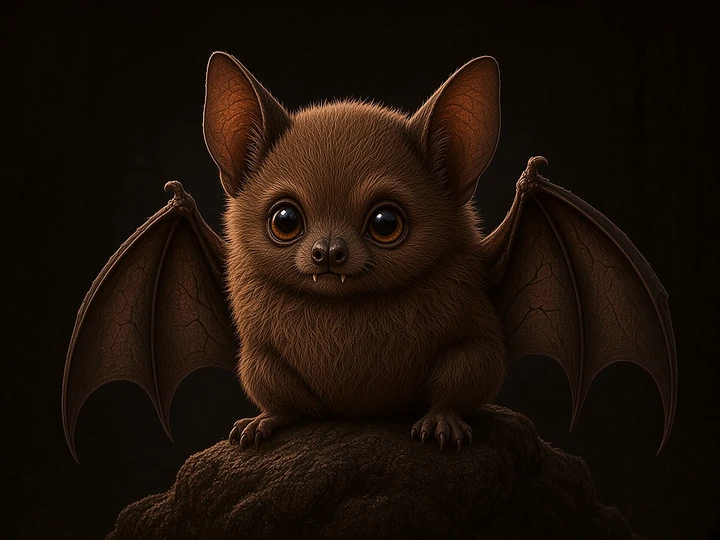
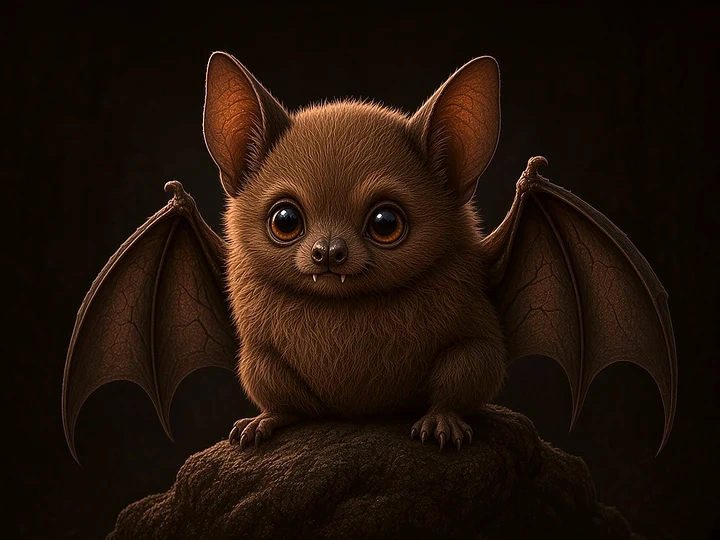
beast cards: retouch young-05,06,10,11,12,13,16,20 (sharpen/brighten, unified method) + bump ?v= cache codes
Cards: young-05/06/10 (sharpen), young-11/12/16/20 (sharpen), young-13 (brighten a=1.25).
Updated front + thumb + thumb-480 webp (720x540 front), ?v= in BeastCardTile.tsx = new sha256[:12].
Owner voice order 2026-11-08 19:13 UTC+8.

diff --git a/components/battlefield/BeastCardTile.tsx b/components/battlefield/BeastCardTile.tsx
@@ -64,14 +64,14 @@ const ART_V2: Record<string, { thumb: string; mid: string; front: string }> = {
     front: '/beast-game/front/young-04.v2.webp?v=a194aeef0b51',
   },
   beast_y05: {
-    thumb: '/beast-game/thumb/young-05.v2.webp?v=71250631fa23',
-    mid: '/beast-game/thumb/young-05.v2-480.webp?v=3f00cd5904b9',
-    front: '/beast-game/front/young-05.v2.webp?v=21a10ce94c86',
+    thumb: '/beast-game/thumb/young-05.v2.webp?v=e5dd345f8550',
+    mid: '/beast-game/thumb/young-05.v2-480.webp?v=ae604b3e5bdb',
+    front: '/beast-game/front/young-05.v2.webp?v=d8f7ef0a729b',
   },
   beast_y06: {
-    thumb: '/beast-game/thumb/young-06.v2.webp?v=17a0c899988e',
-    mid: '/beast-game/thumb/young-06.v2-480.webp?v=5ac9a1fe08d1',
-    front: '/beast-game/front/young-06.v2.webp?v=48ea20912d28',
+    thumb: '/beast-game/thumb/young-06.v2.webp?v=540719954913',
+    mid: '/beast-game/thumb/young-06.v2-480.webp?v=a9aef68f052e',
+    front: '/beast-game/front/young-06.v2.webp?v=cf4539155f9a',
   },
   beast_y07: {
     thumb: '/beast-game/thumb/young-07.v2.webp?v=0cae45d61297',
@@ -89,24 +89,24 @@ const ART_V2: Record<string, { thumb: string; mid: string; front: string }> = {
     front: '/beast-game/front/young-09.v2.webp?v=4a9f0bee5773',
   },
   beast_y10: {
-    thumb: '/beast-game/thumb/young-10.v2.webp?v=60b293681178',
-    mid: '/beast-game/thumb/young-10.v2-480.webp?v=86a13c3c8c55',
-    front: '/beast-game/front/young-10.v2.webp?v=e5724cd804a0',
+    thumb: '/beast-game/thumb/young-10.v2.webp?v=10b8c45da983',
+    mid: '/beast-game/thumb/young-10.v2-480.webp?v=9c0abc08c321',
+    front: '/beast-game/front/young-10.v2.webp?v=13a8976a0a7e',
   },
   beast_y11: {
-    thumb: '/beast-game/thumb/young-11.v2.webp?v=918a71c2bdc6',
-    mid: '/beast-game/thumb/young-11.v2-480.webp?v=55d77643f84c',
-    front: '/beast-game/front/young-11.v2.webp?v=9a74281f87a9',
+    thumb: '/beast-game/thumb/young-11.v2.webp?v=ebcc6d14caa2',
+    mid: '/beast-game/thumb/young-11.v2-480.webp?v=685056ccea8b',
+    front: '/beast-game/front/young-11.v2.webp?v=c4d385320729',
   },
   beast_y12: {
-    thumb: '/beast-game/thumb/young-12.v2.webp?v=ddd6095e2b50',
-    mid: '/beast-game/thumb/young-12.v2-480.webp?v=b52c90cc4d59',
-    front: '/beast-game/front/young-12.v2.webp?v=ed1d198e9fc8',
+    thumb: '/beast-game/thumb/young-12.v2.webp?v=98f8cff1f816',
+    mid: '/beast-game/thumb/young-12.v2-480.webp?v=593f0dc6605c',
+    front: '/beast-game/front/young-12.v2.webp?v=ae964ae9b01d',
   },
   beast_y13: {
-    thumb: '/beast-game/thumb/young-13.v2.webp?v=fb94696c032e',
-    mid: '/beast-game/thumb/young-13.v2-480.webp?v=092a41a760c0',
-    front: '/beast-game/front/young-13.v2.webp?v=f75ff8bd1bc7',
+    thumb: '/beast-game/thumb/young-13.v2.webp?v=f1f6de76be72',
+    mid: '/beast-game/thumb/young-13.v2-480.webp?v=b28e52ac03ec',
+    front: '/beast-game/front/young-13.v2.webp?v=ea16f403b6a1',
   },
   beast_y14: {
     thumb: '/beast-game/thumb/young-14.v2.webp?v=9c1aaefe85aa',
@@ -119,9 +119,9 @@ const ART_V2: Record<string, { thumb: string; mid: string; front: string }> = {
     front: '/beast-game/front/young-15.v2.webp?v=fd61e3f6dd3e',
   },
   beast_y16: {
-    thumb: '/beast-game/thumb/young-16.v2.webp?v=fa9884076167',
-    mid: '/beast-game/thumb/young-16.v2-480.webp?v=1cb9ef82fa14',
-    front: '/beast-game/front/young-16.v2.webp?v=36c78d0b0171',
+    thumb: '/beast-game/thumb/young-16.v2.webp?v=4925bd57fda0',
+    mid: '/beast-game/thumb/young-16.v2-480.webp?v=700960d5c737',
+    front: '/beast-game/front/young-16.v2.webp?v=35cecb2471a9',
   },
   beast_y17: {
     thumb: '/beast-game/thumb/young-17.v2.webp?v=7e36ea24eed3',
@@ -139,9 +139,9 @@ const ART_V2: Record<string, { thumb: string; mid: string; front: string }> = {
     front: '/beast-game/front/young-19.v2.webp?v=119395b13767',
   },
   beast_y20: {
-    thumb: '/beast-game/thumb/young-20.v2.webp?v=c297c684e98e',
-    mid: '/beast-game/thumb/young-20.v2-480.webp?v=e010fc831dbe',
-    front: '/beast-game/front/young-20.v2.webp?v=44ca98a513ab',
+    thumb: '/beast-game/thumb/young-20.v2.webp?v=de93b52e686e',
+    mid: '/beast-game/thumb/young-20.v2-480.webp?v=80b105aad7ea',
+    front: '/beast-game/front/young-20.v2.webp?v=86e0fe64d16e',
   },
   beast_y21: {
     thumb: '/beast-game/thumb/young-21.v2.webp?v=1d52b69cdb47',
